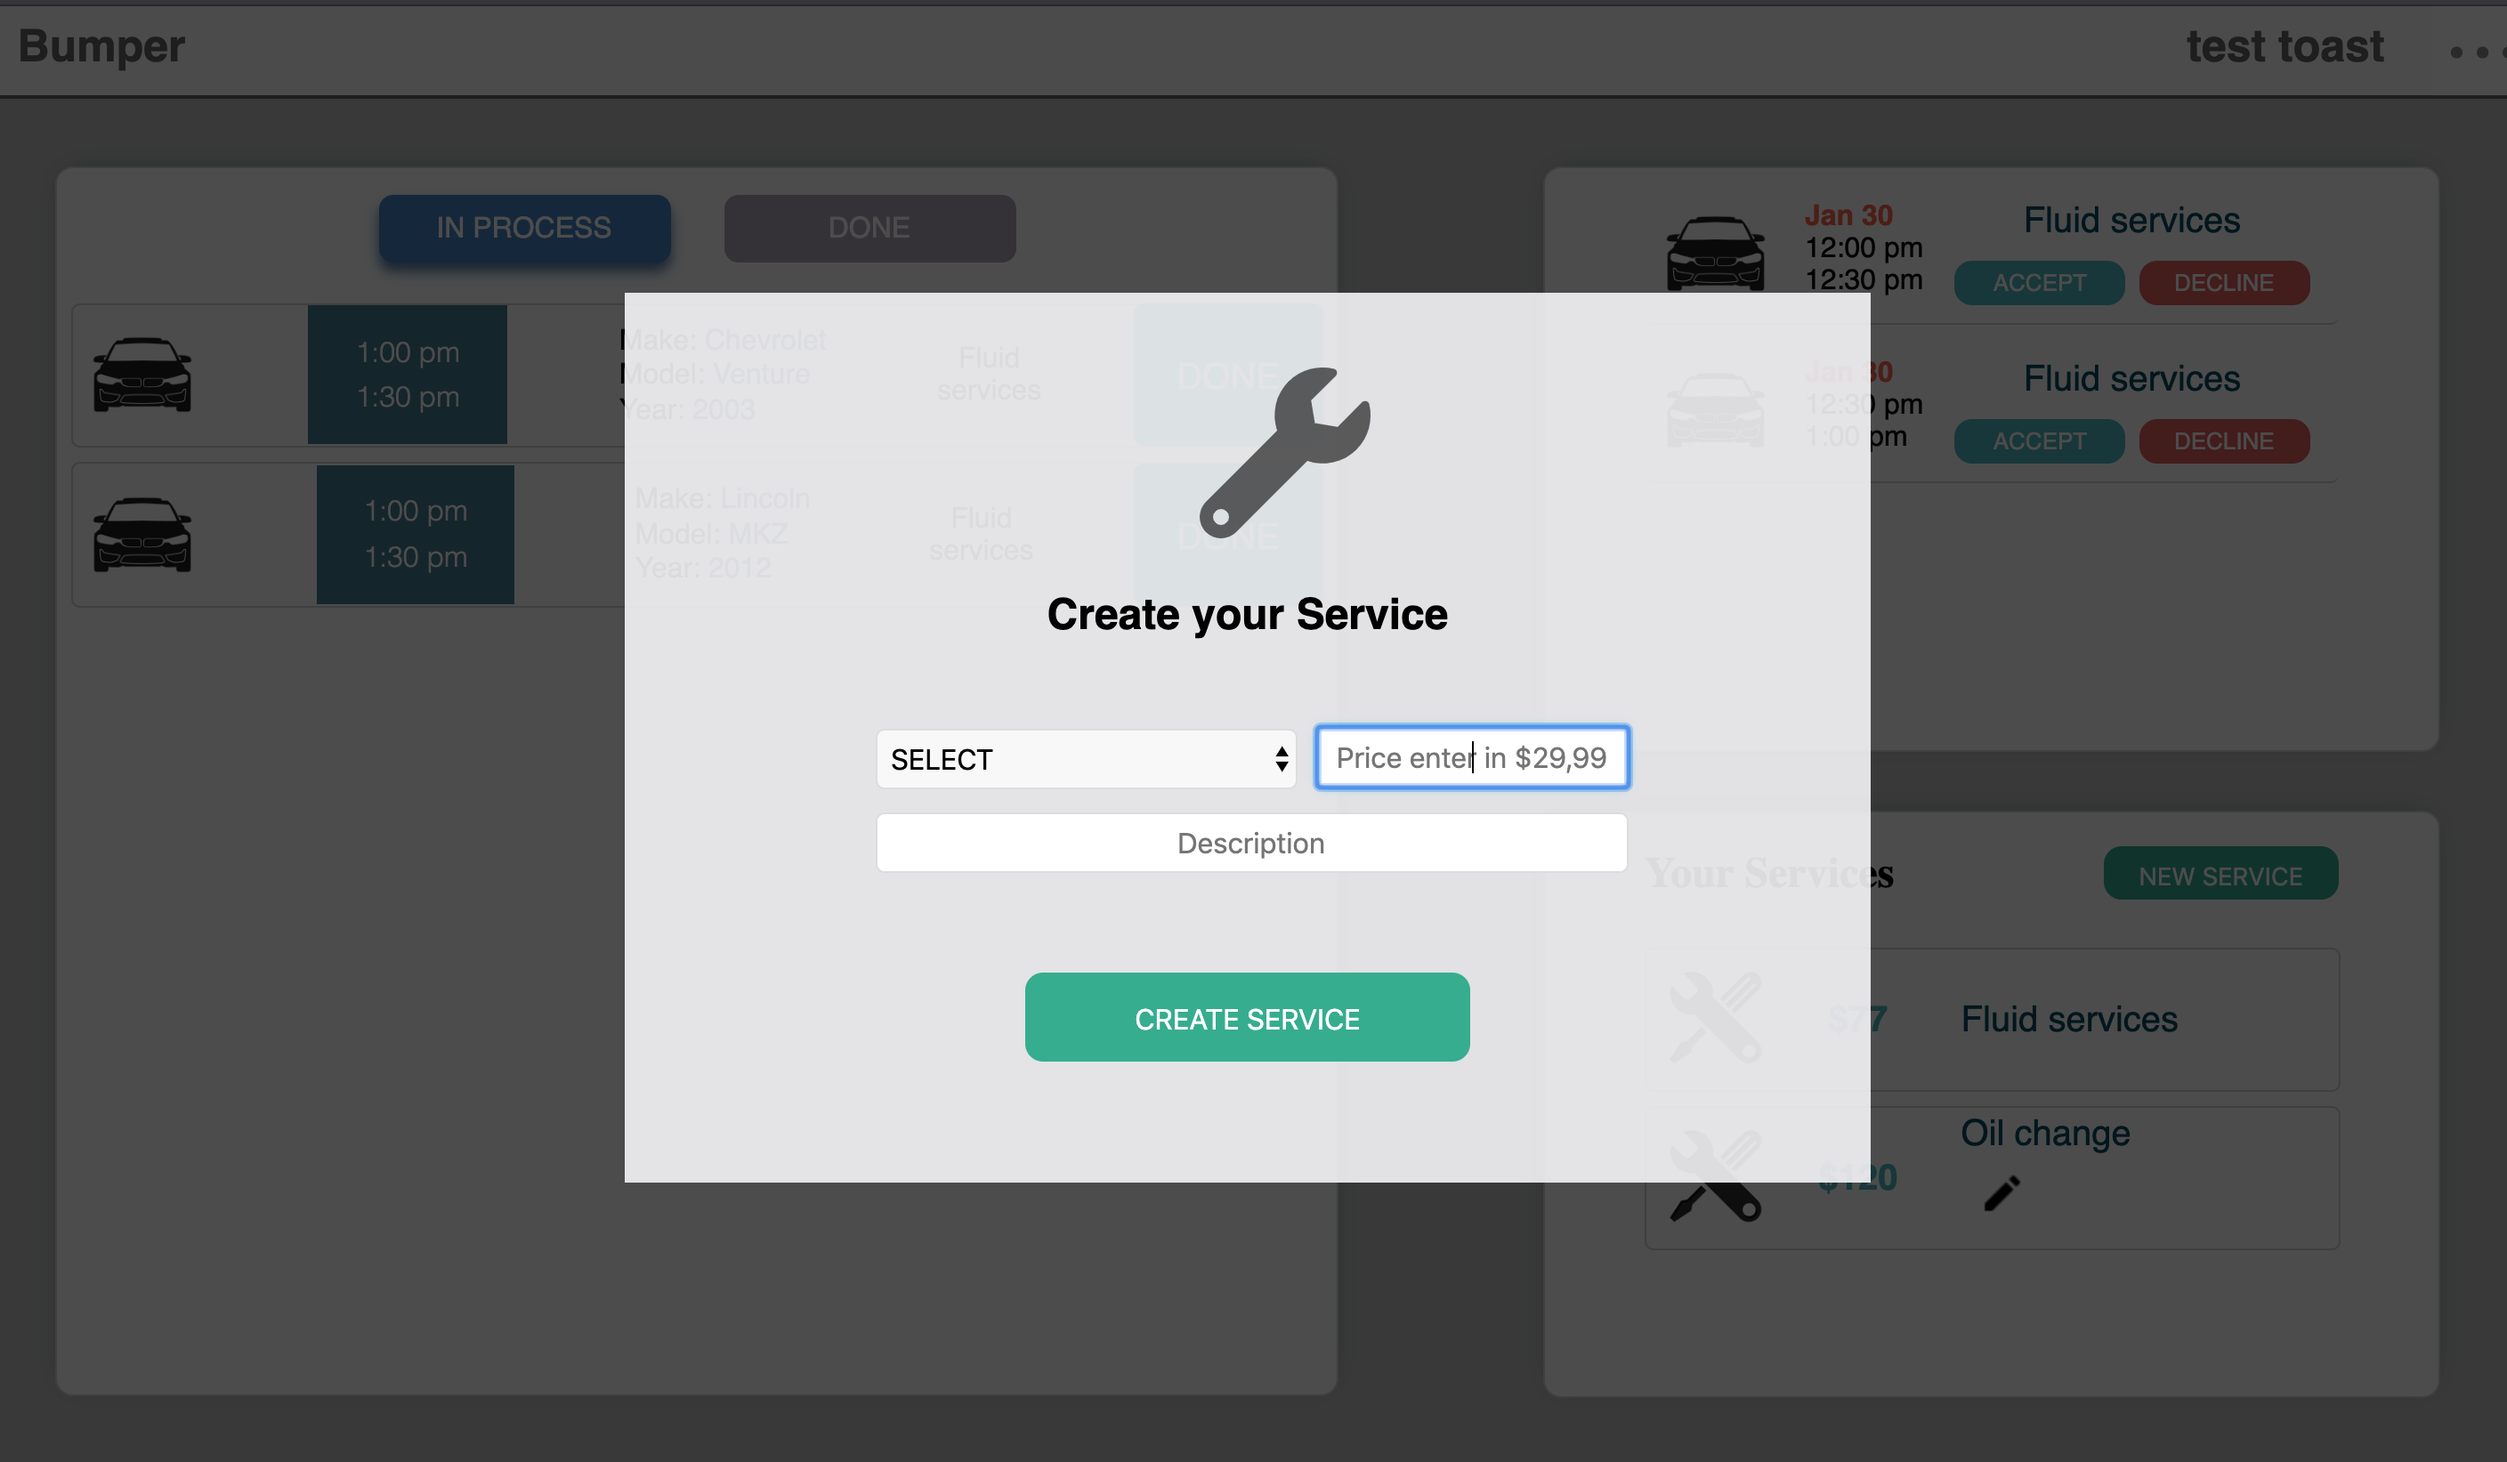
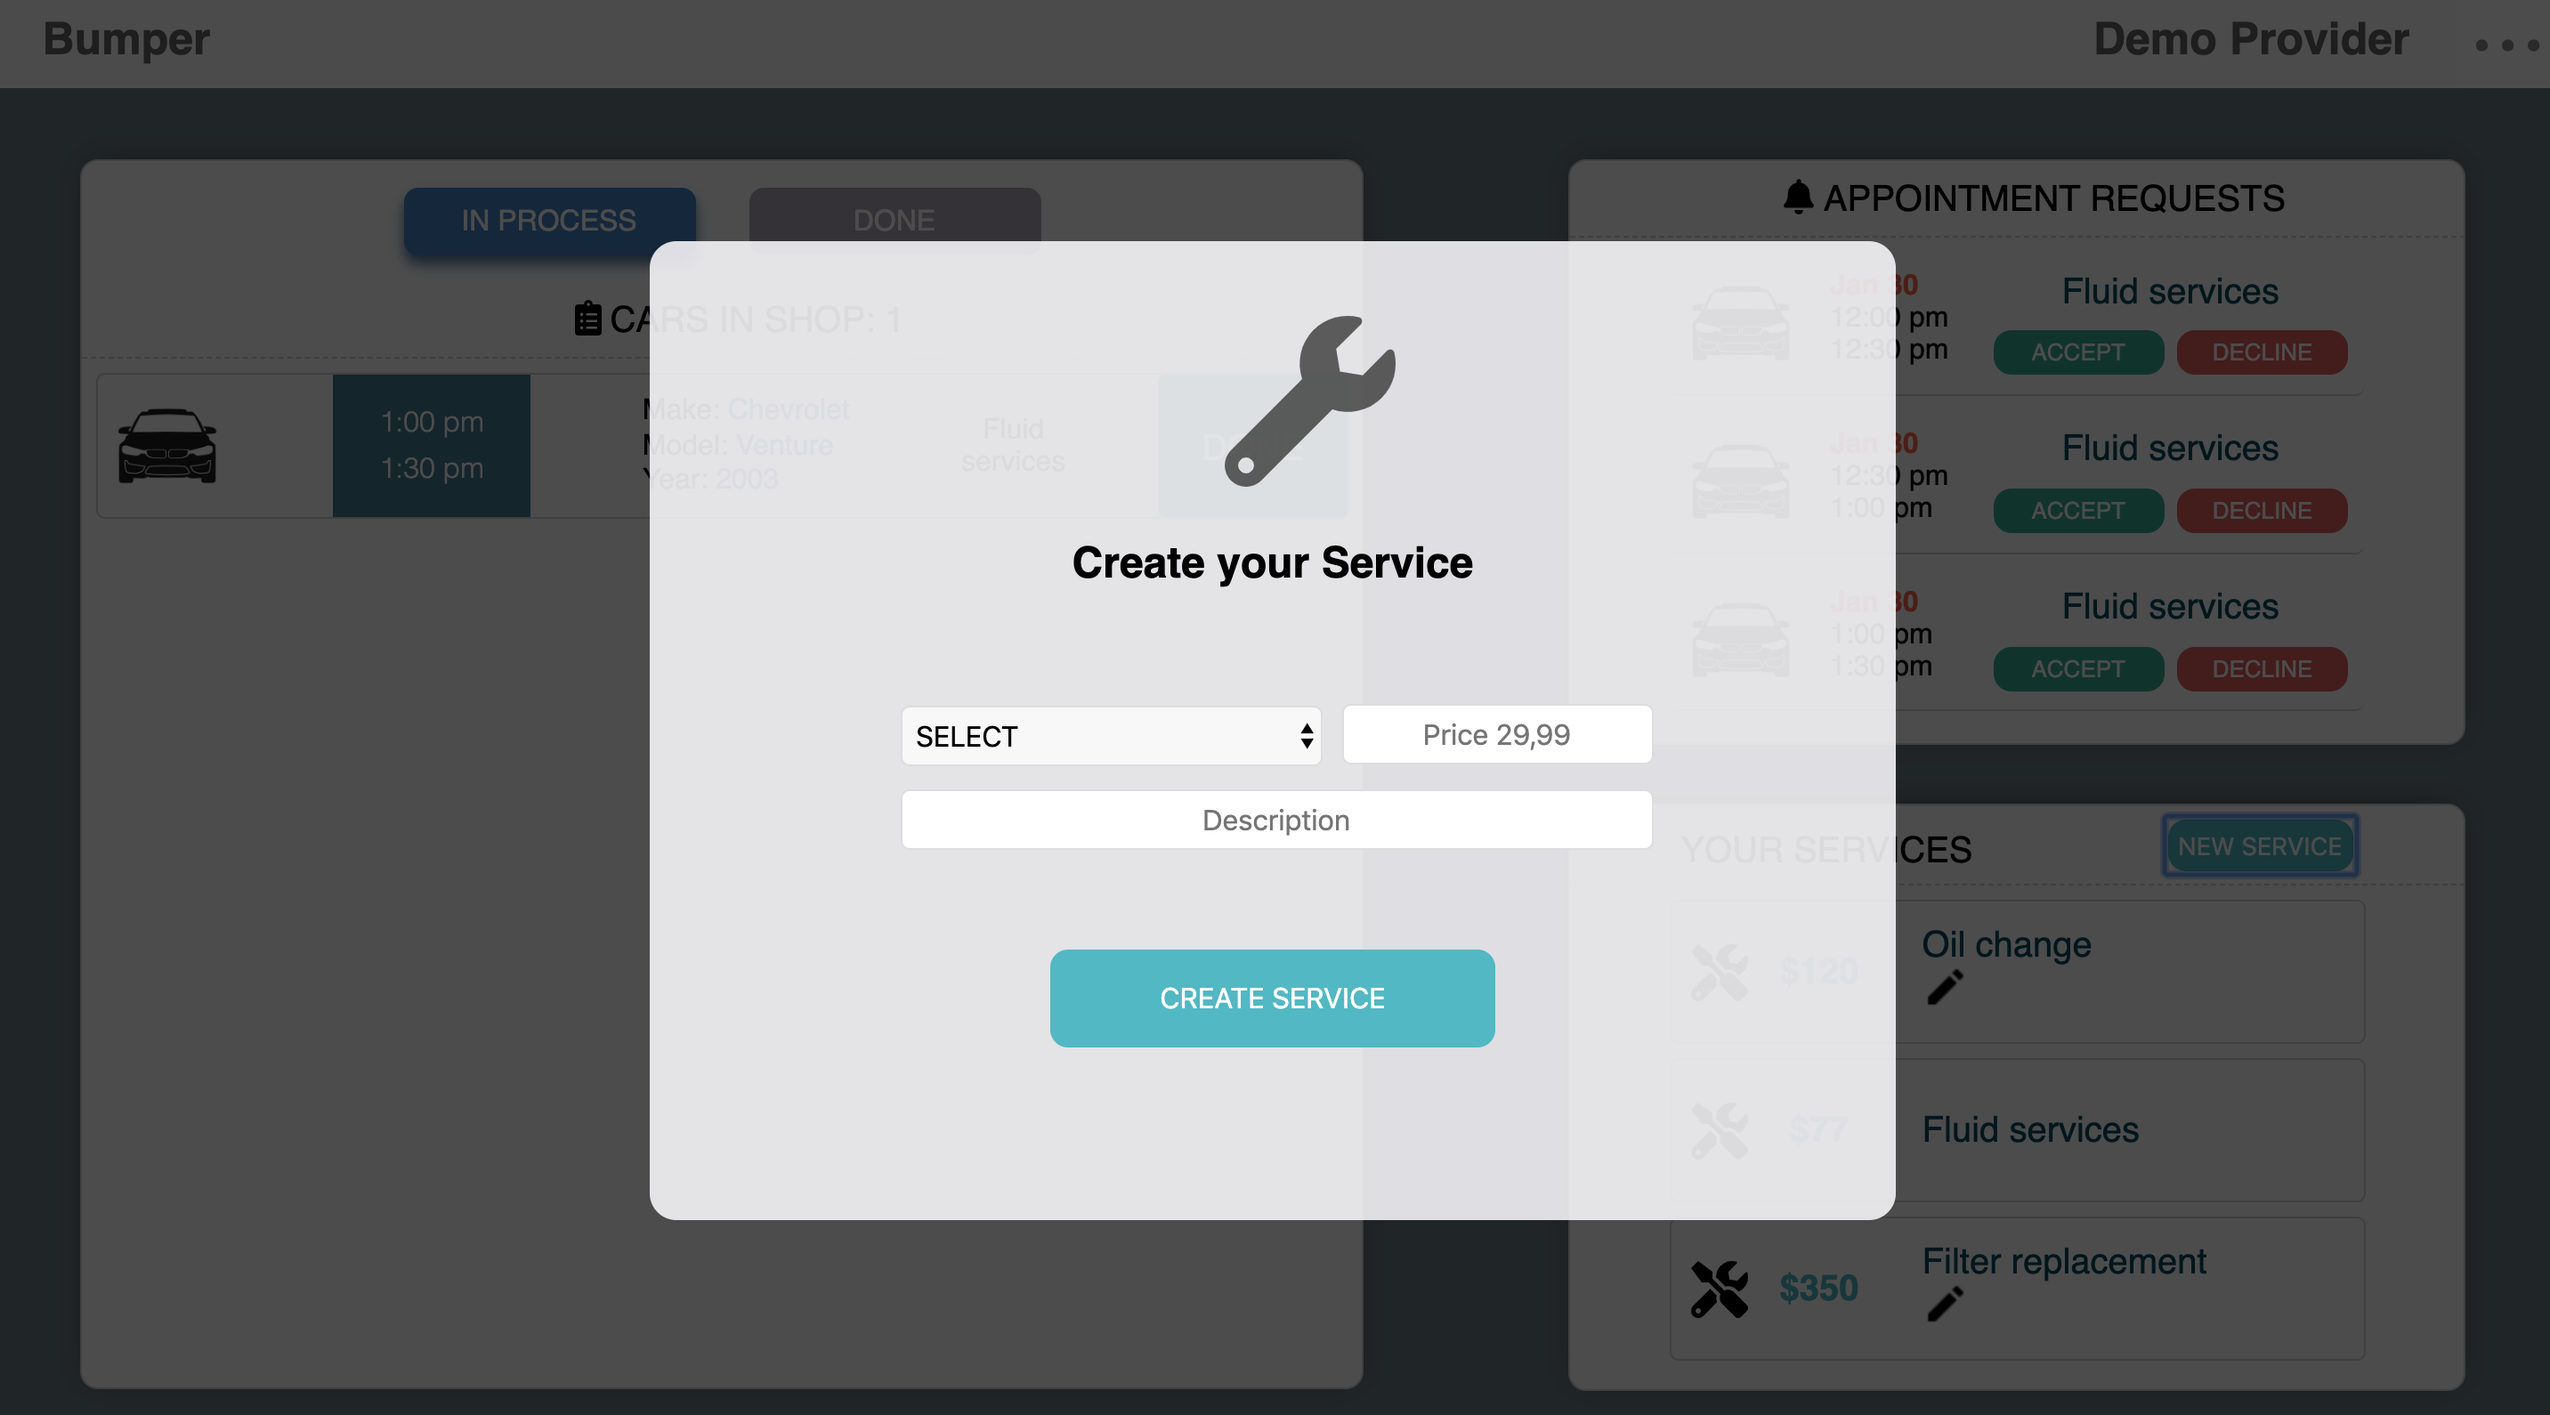
readme

diff --git a/README.md b/README.md
@@ -8,7 +8,7 @@ Car owner on the other side are able to quickly book the car service they need.
 At a later stage Bumper plans to integrate the smartcar API to work with real time car data.
 With that live data car owner can manage their car's efficient. They will be informed about upcoming oil changes or other general car services.
 
-[take a look](https://immense-scrubland-89264.herokuapp.com/#/)
+[take a look](http://bumper-ly.herokuapp.com/#/)
 ***
 
 ## **Features**
@@ -34,6 +34,7 @@ With that live data car owner can manage their car's efficient. They will be inf
  ![](frontend/src/assets/notification.png)
  
  * In the appointment feed provider can manage their accepted appointments. They see necesarry information and can marked it as done or in progress.
+ ![](frontend/src/assets/images/providerFeed.png)
 
 
 
